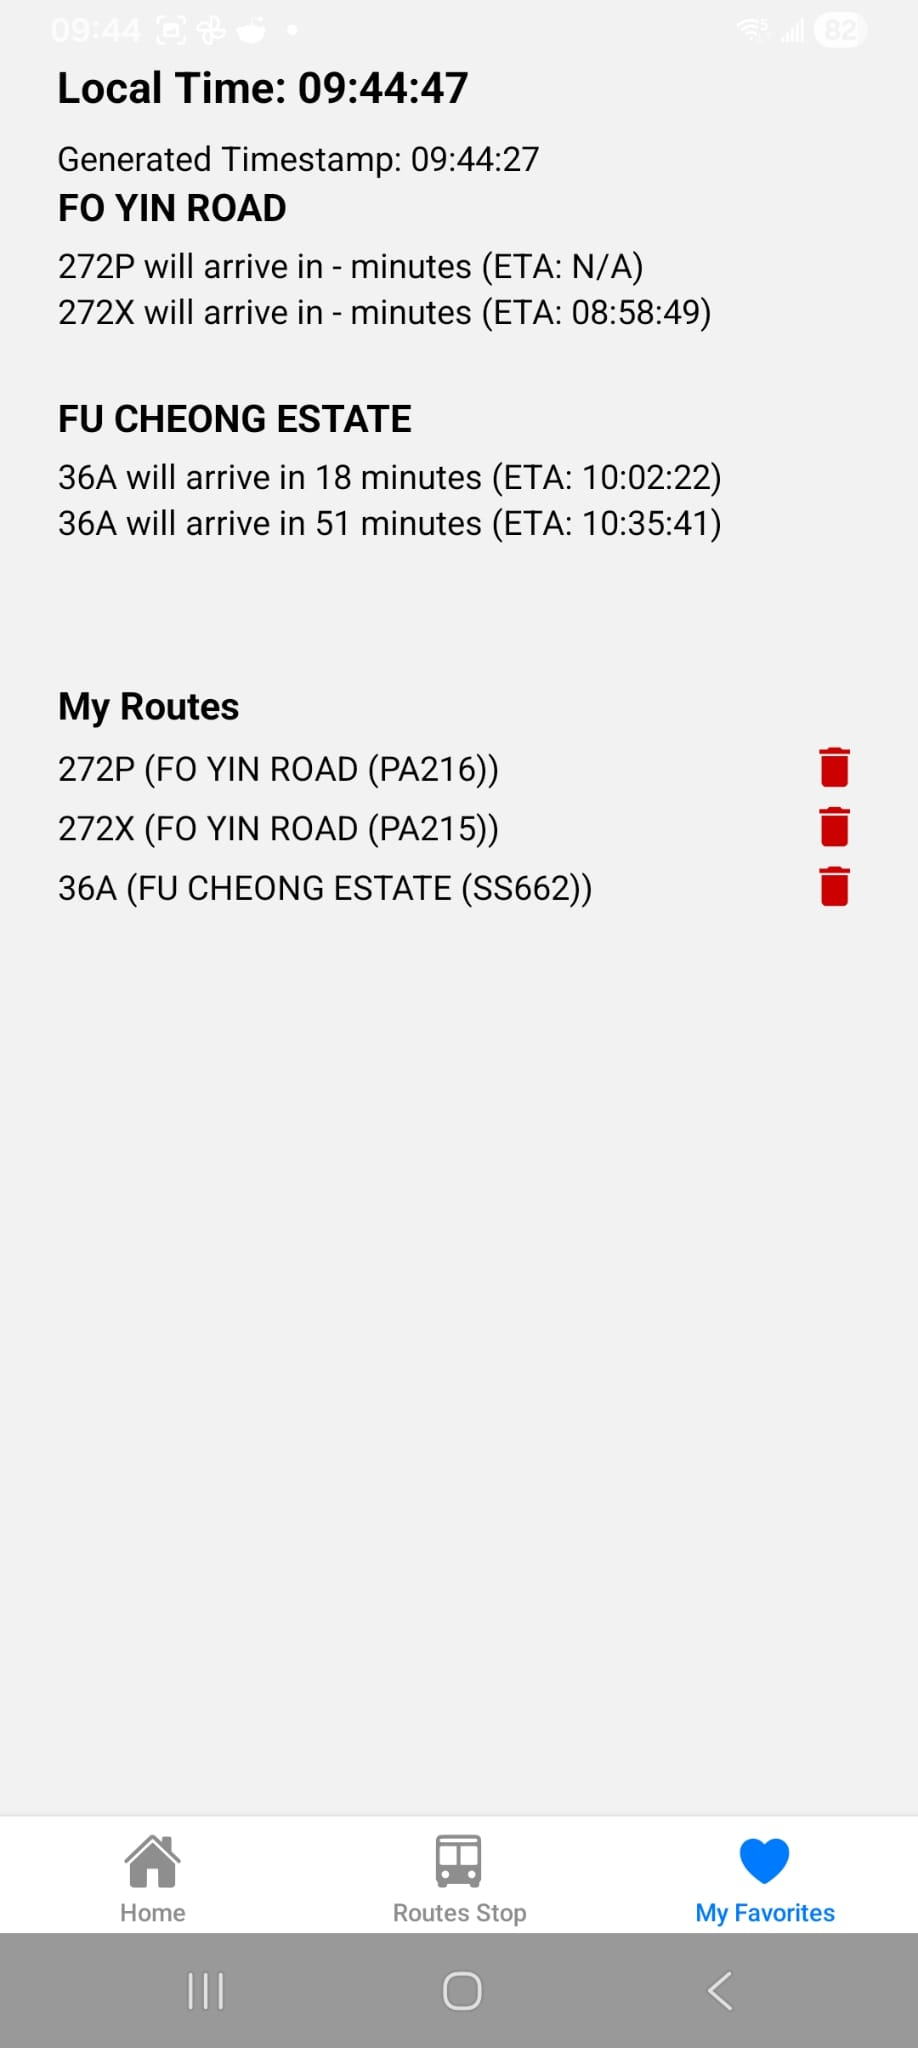
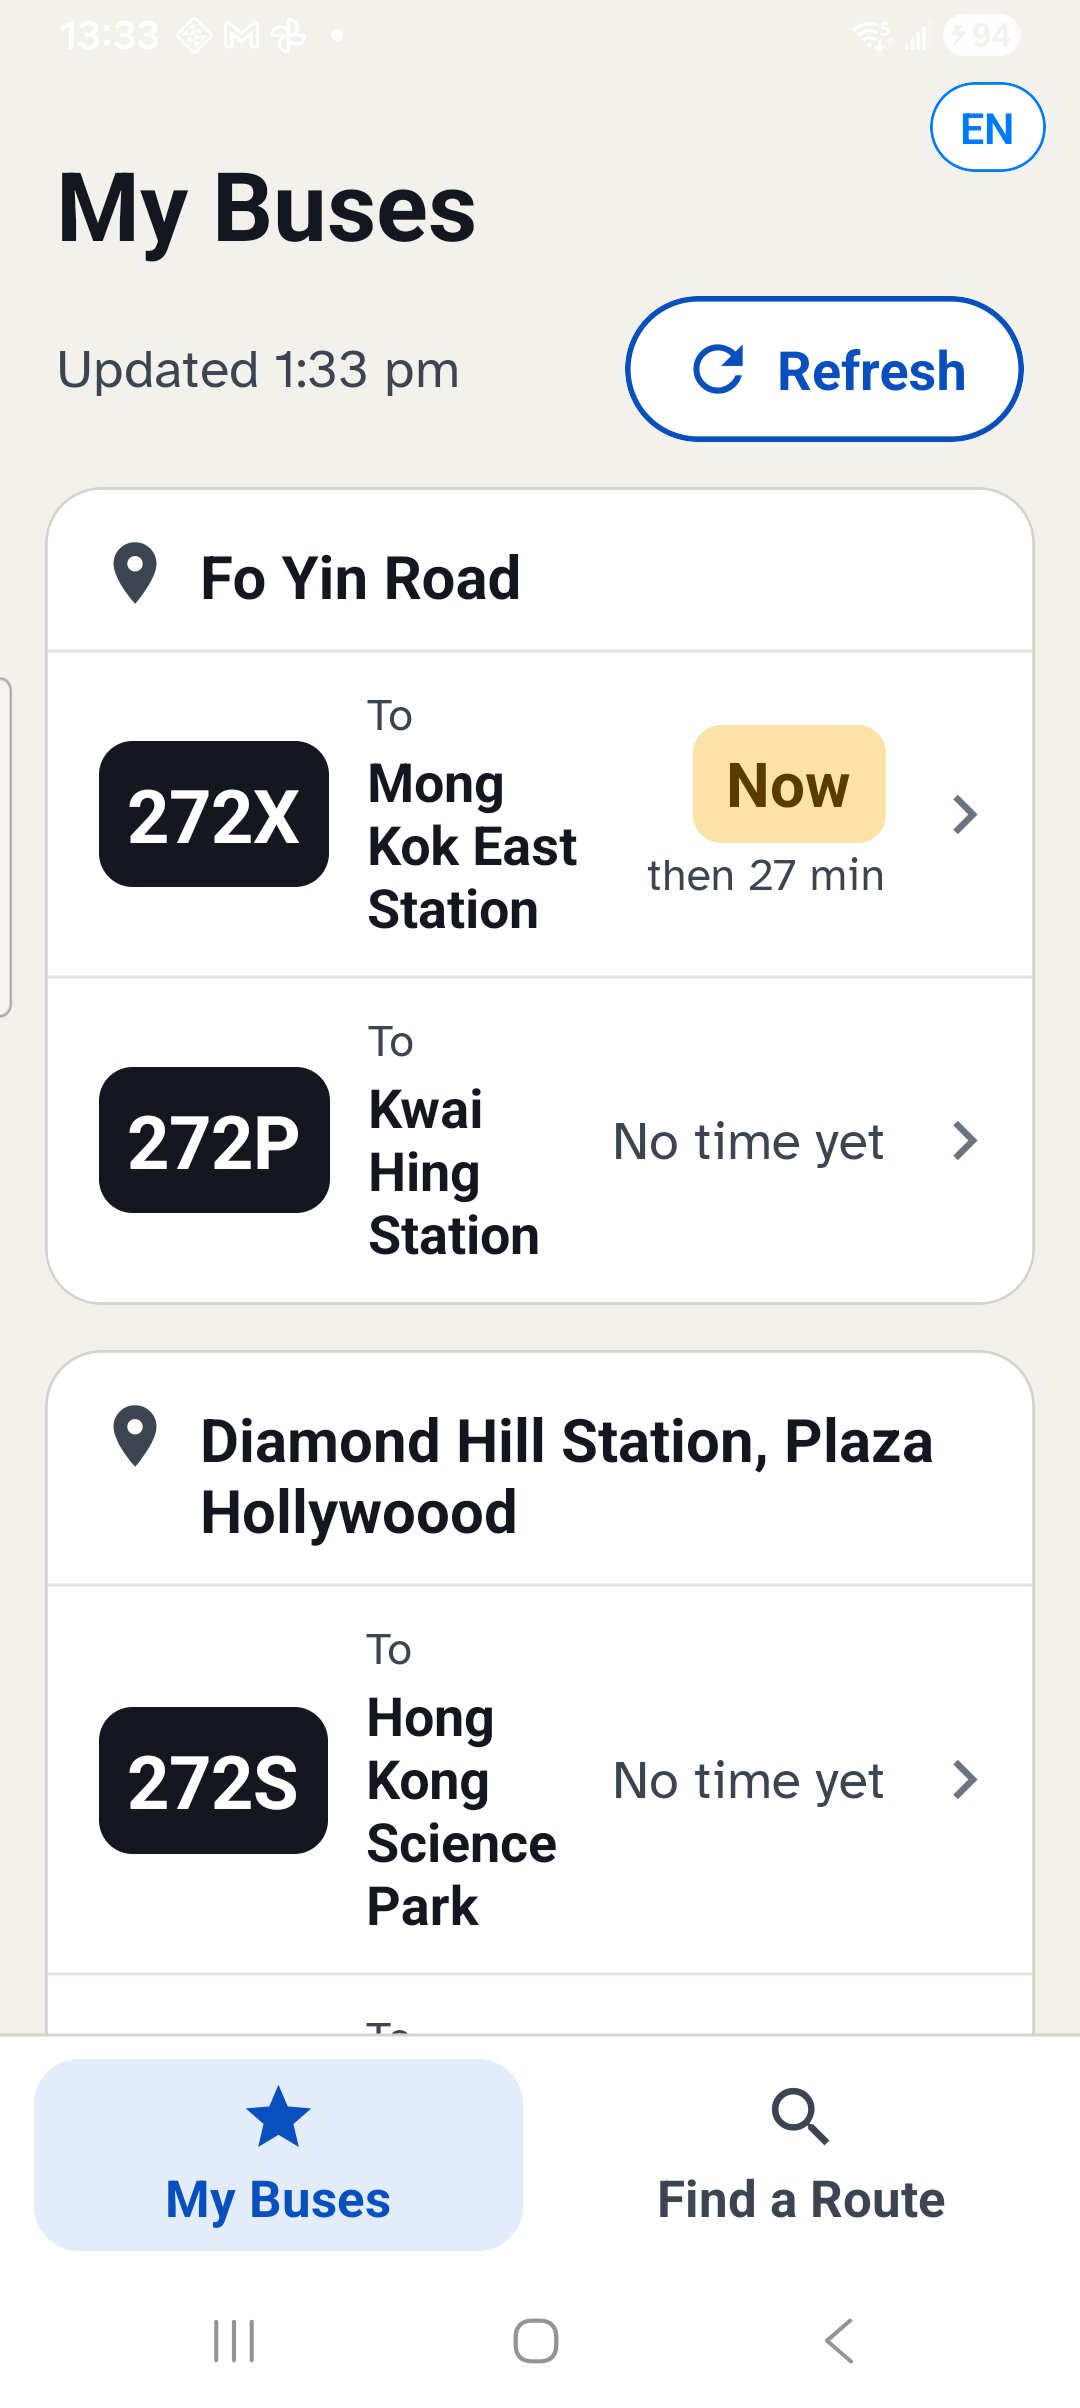
Update README screenshots and add widget screenshot

diff --git a/README.md b/README.md
@@ -13,10 +13,13 @@
 A simple React Native app built with Expo, to fetch KMB bus arrival times and the ability to save favorite bus stops. The favorite bus stops are also displayed in an Android widget, which is the main advantage compared to other similar apps.
 
 <div style="display: flex; gap: 16px;">
-  <img src="./assets/images/home_screen.jpeg" alt="Home Screen" width="32%" />
-  <img src="./assets/images/routes_stop_screen.jpeg" alt="Routes Stop Screen" width="32%" />
-  <img src="./assets/images/my_favorites_screen.jpeg" alt="My Favorites Screen" width="32%" />
+  <img src="./assets/images/my_favorites_screen.jpeg" alt="My Buses Screen" width="32%" />
+  <img src="./assets/images/find_route_screen.jpeg" alt="Find a Route Screen" width="32%" />
+  <img src="./assets/images/routes_stop_screen.jpeg" alt="Route Stops Screen" width="32%" />
 </div>
+
+### Widget
+<img src="./assets/images/widget_screenshot.png" alt="Bus ETA Widget" width="32%" />
 
 ## Features
 - Free and open source
